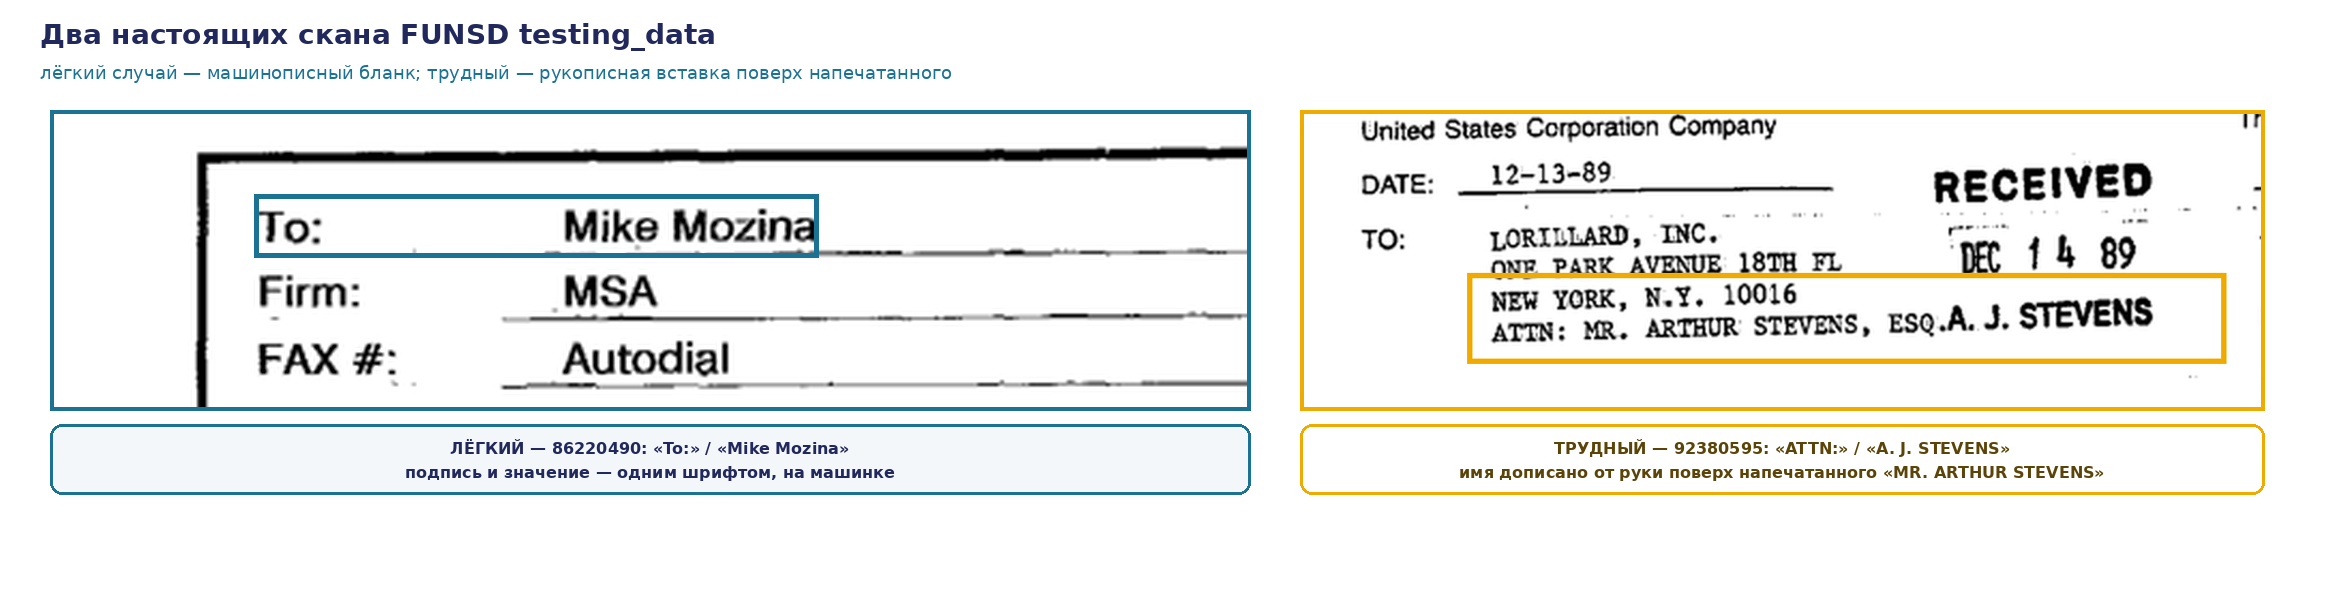
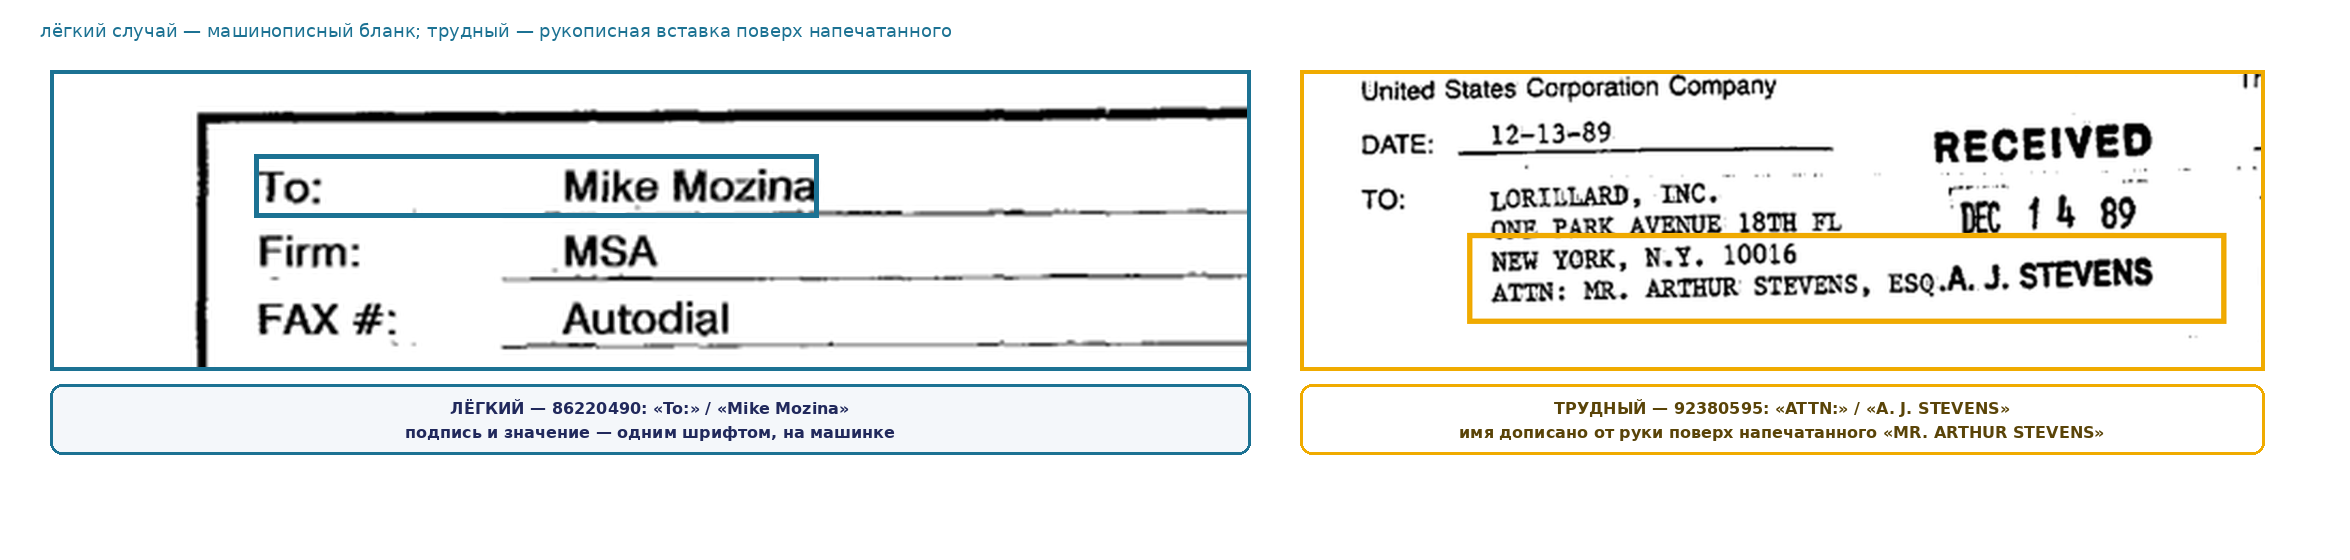
Доводка Кейса A семинара 12: убран двойной заголовок n15a, названы предметные заголовки, цена обоснована на n16 (#351)
- make_figures_a.py: a_primer_skanov() больше не рисует свой head() поверх
  заголовка слайда (дублирование) — раскладка сдвинута вверх, канвас сужен
  по высоте. Добавлено явное правило-комментарий: фигуры не рисуют
  собственный заголовок (наступили независимо две сессии — эта и Кейс B).
- n15a: заголовок «Два настоящих скана перед сводом» (порядок наших
  слайдов) → «FUNSD: датасет и два настоящих примера» (предмет, §6.2).
- n16: заголовок «Свод замера» (наша методическая форма, такт С2) →
  «Результат: 75,5% · 54,5% · 35,7%» (цитата независимого литературного
  разбора, Н23). В таблицу добавлена строка цены ($3,85/$0,128/$0 на 1000
  форм) — вывод-плашка про расхождение точности и цены теперь обоснован
  числом на этом же кадре, а не ссылкой на n14/n20. Столбец «модель» →
  «мультимодальная» — слово в слово с головной плашкой (первоисточник
  расхождения словаря, находка владельца круга 2).

Changed region(s): [[0.0, 0.0304, 0.963, 0.85]]

diff --git a/library/seminars/sem-12/rendered/make_figures_a.py b/library/seminars/sem-12/rendered/make_figures_a.py
@@ -13,6 +13,13 @@
 (n15a) добавлена рядом, по образцу `_paste_fit`/`case_b_light_hard` из
 `make_figures_B.py` этого же занятия (двухпанельная раскладка — реальный
 скан + рамка вокруг интересующей области + подпись под каждой панелью).
+
+ПРАВИЛО (наступили независимо две сессии — эта и сессия Кейса B, круг
+доводки issue #351): функция-фигура НЕ рисует собственный заголовок через
+`head(...)` — заголовок слайду уже даёт `# Заголовок` markdown-файла, и
+`head()` внутри фигуры поверх него — дублирование, не второй уровень
+иерархии. Фигура начинается сразу с подзаголовка-строки (обычным `d.text`)
+или с самой раскладки.
 """
 import sys
 from pathlib import Path
@@ -132,10 +139,9 @@ def a_primer_skanov():
     box=[88,228,126,241], ответ «MR. ARTHUR STEVENS, ESQ A. J. STEVENS»
     box=[131,216,398,240] (`annotations/92380595.json`, id 3/39) — имя
     получателя дописано от руки поверх напечатанного текста, §8.11 канона."""
-    im = Image.new("RGB", (2350, 600), W)
+    im = Image.new("RGB", (2350, 560), W)
     d = ImageDraw.Draw(im)
-    head(d, "Два настоящих скана FUNSD testing_data", sz=28)
-    d.text((40, 62),
+    d.text((40, 20),
             "лёгкий случай — машинописный бланк; трудный — рукописная вставка поверх напечатанного",
             font=f(18), fill=LIGHT)
 
@@ -148,7 +154,7 @@ def a_primer_skanov():
     easy = easy.resize((int(easy.width * target_h / easy.height), target_h))
     hard = hard.resize((int(hard.width * target_h / hard.height), target_h))
 
-    gx1, gy = 50, 110
+    gx1, gy = 50, 70
     gx2 = gx1 + easy.width + 50
     im.paste(easy, (gx1, gy))
     im.paste(hard, (gx2, gy))

diff --git a/library/seminars/sem-12/slides/n16-a-svod-zamera.md b/library/seminars/sem-12/slides/n16-a-svod-zamera.md
@@ -3,7 +3,7 @@ id: n16
 type: axis_table
 duration_min: 2.0
 assertion: "75,5% против 54,5% против 35,7% — и у каждого метода своя цена"
-learning_goal: "С2 такт 2 (forma-keysa-s-zamerom.md §1): свод результатов, та же разбивка по группам, что на такте 1. С6: отдельный столбец числа на вариант, одна размерность. Находки 1/2 брифа issue #351: головная плашка подписана по методу, строка «телефон» вернула «/факс» (как в n15), таблица согласована по словарю имён с n13/n15/n18/n19/n20/n22, добавлена вывод-плашка (кадр раньше был без неё)."
+learning_goal: "С2 такт 2 (forma-keysa-s-zamerom.md §1): свод результатов, та же разбивка по группам, что на такте 1. С6: отдельный столбец числа на вариант, одна размерность. Находки 1/2 брифа issue #351: головная плашка подписана по методу, строка «телефон» вернула «/факс» (как в n15), таблица согласована по словарю имён с n13/n15/n18/n19/n20/n22, добавлена вывод-плашка (кадр раньше был без неё). Доводка (оркестратор, круг 2): заголовок переименован — «Свод замера» называл нашу методическую форму (такт С2), не предмет кадра (литкритика Н23, та же замена для этого же кадра); в таблицу ДОБАВЛЕНА строка цены — вывод-плашка про цену теперь обоснован числом на этом же кадре, а не ссылкой на соседний; столбец «модель» переименован в «мультимодальная» — слово в слово с головной плашкой (находка владельца круга 2, первоисточник расхождения словаря)."
 visual:
   pattern: axis_table
   primary: >
@@ -11,12 +11,12 @@ visual:
     же разбивки по группам, что на предыдущем кадре, плюс строка цены и
     вывод-плашка под таблицей.
   backup: >
-    Числа — stend/zamery-A/README.md «Свод». Нормализация сравнения
-    (регистр/пробелы/пунктуация) и сопоставление повторяющихся подписей —
-    там же, «Что поправлено чтением отказов глазами».
+    Числа — stend/zamery-A/README.md «Свод» и «Цена и время». Нормализация
+    сравнения (регистр/пробелы/пунктуация) и сопоставление повторяющихся
+    подписей — там же, «Что поправлено чтением отказов глазами».
 ---
 
-# Свод замера
+# Результат: 75,5% · 54,5% · 35,7%
 
 ## Assertion
 
@@ -26,12 +26,13 @@ visual:
 
 > **мультимодальная модель — 75,5%** · **гибрид — 54,5%** · **распознавание + правила — 35,7%** (из 143 целевых полей)
 
-| | модель | гибрид | правила |
+| | мультимодальная | гибрид | правила |
 |---|---|---|---|
 | имя | 85% | 57% | 32% |
 | дата | 79% | 65% | 47% |
 | телефон/факс | 44% | 48% | 40% |
 | число | 79% | 37% | 21% |
+| цена / 1000 форм | $3,85 | $0,128 | $0 |
 
 > Точность и цена расходятся в разные стороны: выбор между тремя действиями — решение о компромиссе, не поиск победителя. Исключение — телефон/факс: там у всех трёх действий близкий, невысокий результат, и выбор между ними там решает не цена.
 

diff --git a/library/seminars/sem-12/slides/n15a-a-primer-skanov.md b/library/seminars/sem-12/slides/n15a-a-primer-skanov.md
@@ -3,7 +3,7 @@ id: n15a
 type: content
 duration_min: 1.0
 assertion: "Прежде чем смотреть на свод по тридцати формам — два настоящих скана: лёгкий и трудный случай"
-learning_goal: "Находка 3 брифа issue #351 (владелец, круг 2): до свода n16 зал не видел ни одного реального скана этого корпуса. Два кадра FUNSD testing_data — машинописный бланк (лёгкий случай) и бланк с рукописной вставкой поверх напечатанного (трудный случай, §8.11 канона) — с рамкой вокруг настоящей пары подпись+значение по разметке корпуса, не макет."
+learning_goal: "Находка 3 брифа issue #351 (владелец, круг 2): до свода n16 зал не видел ни одного реального скана этого корпуса. Два кадра FUNSD testing_data — машинописный бланк (лёгкий случай) и бланк с рукописной вставкой поверх напечатанного (трудный случай, §8.11 канона) — с рамкой вокруг настоящей пары подпись+значение по разметке корпуса, не макет. Доводка (оркестратор, круг 2): заголовок переименован с «…перед сводом» (порядок НАШИХ слайдов, не предмет) на имя датасета — §6.2 канона; фигура больше не рисует свой `head()` поверх заголовка кадра (дубликат, системная грабля генератора — см. make_figures_a.py)."
 visual:
   pattern: content
   figure: a-primer-skanov.png
@@ -19,7 +19,7 @@ visual:
     использование разрешено явно).
 ---
 
-# Два настоящих скана перед сводом
+# FUNSD: датасет и два настоящих примера
 
 ## Assertion
 
